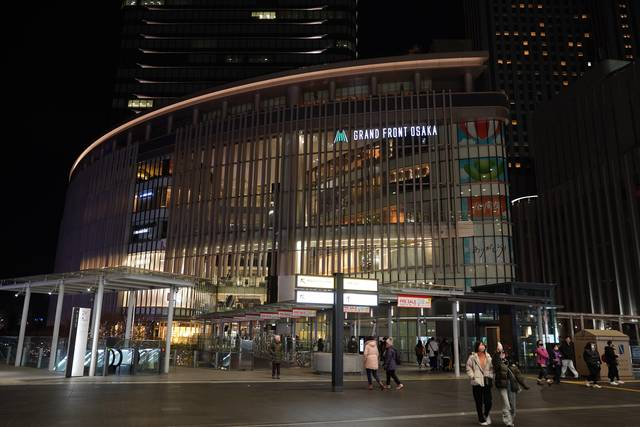
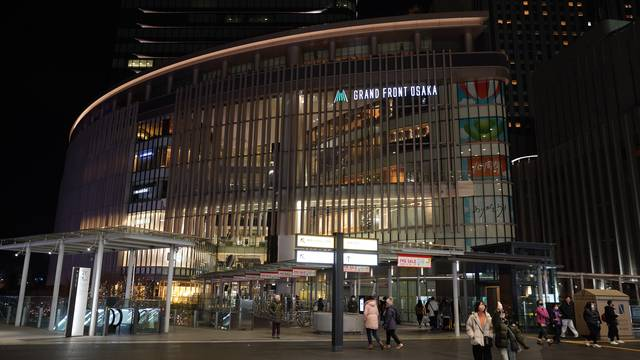
Cut images and add alt text

diff --git a/content/en/blog/tourism-senren-banka/index.md b/content/en/blog/tourism-senren-banka/index.md
@@ -27,15 +27,15 @@ Now let's get started!
 A nice street along a small river just north of central Gion.
 I have seen videos near the Gion Shinbashi bridge being full with tourists but it was fairly quiet every time I was there.
 
-![01](img/cg/01.jpg)
-![alt text](img/XLR66277.jpg)
+![01.jpg](img/cg/01.jpg)
+![XLR66277.jpg](img/XLR66277.jpg)
 
 Date: 2023-12-27
 
 I visited Kyōto again during the Sakura season and since I was already in the area I took a new picture in the morning.
 
-![01](img/cg/01.jpg)
-![alt text](img/YD825920.jpg)
+![01.jpg](img/cg/01.jpg)
+![YD825920.jpg](img/YD825920.jpg)
 
 Date: 2024-04-08
 
@@ -44,13 +44,13 @@ Date: 2024-04-08
 Hanamikoji Street is one of Kyoto City's most famous streets, situated right in the Gion district.  
 Since it is a public street you can take pictures, but be careful not to disturb anybody and do not take pictures anywhere it is not allowed.
 
-![02](img/cg/02.jpg)
-![alt text](img/XLR67319.jpg)
+![02.jpg](img/cg/02.jpg)
+![XLR67319.jpg](img/XLR67319.jpg)
 
 Date: 2023-12-27
 
-![02](img/cg/02.jpg)
-![alt text](img/YD825472.jpg)
+![02.jpg](img/cg/02.jpg)
+![YD825472.jpg](img/YD825472.jpg)
 
 Date: 2024-04-08
 
@@ -60,24 +60,23 @@ Nice shopping streets with traditional Japanese-style buildings in front of Kiyo
 Especially the stairs on the left side of the picture are very popular.
 Sadly, the famous weeping cherry tree there suddenly fell down recently.
 
-![05](img/cg/05.jpg)
-![alt text](img/XLR60433.jpg)
+![05.jpg](img/cg/05.jpg)
+![XLR60433.jpg](img/XLR60433.jpg)
 
 Date: 2023-12-27
 
-![05](img/cg/05.jpg)
-![alt text](img/YD862703.jpg)
+![05.jpg](img/cg/05.jpg)
+![YD862703.jpg](img/YD862703.jpg)
 
 Date: 2024-04-08
 
-
-![04](img/cg/04.jpg)
-![alt text](img/XLR64159.jpg)
+![04.jpg](img/cg/04.jpg)
+![XLR64159.jpg](img/XLR64159.jpg)
 
 Date: 2023-12-27
 
-![04](img/cg/04.jpg)
-![alt text](img/YD863094.jpg)
+![04.jpg](img/cg/04.jpg)
+![YD863094.jpg](img/YD863094.jpg)
 
 Date: 2024-04-08
 
@@ -88,8 +87,8 @@ The people at the shop on the right side were doing their best to sell their soa
 
 The Former Butoku Hall is apparently the oldest martial arts performance hall in Japan, having been built in 1899 as part of the 1100th anniversary celebrations of the capital moving to Heian-kyo, and it has been designated as a significant cultural property in Japan.
 
-![03](img/cg/03.jpg)
-![alt text](img/XLR58600.jpg)
+![03.jpg](img/cg/03.jpg)
+![XLR58600.jpg](img/XLR58600.jpg)
 
 Date: 2023-12-27
 
@@ -98,8 +97,8 @@ Date: 2023-12-27
 A big and fairly quiet temple thats pretty unknown to tourists. It is one of the head temples of the Pure Land (Jōdo) school of Buddhism
 and has a garden you can visit during the autumn leaves season.
 
-![06](img/cg/06.jpg)
-![alt text](img/XLR57627.jpg)
+![06.jpg](img/cg/06.jpg)
+![XLR57627.jpg](img/XLR57627.jpg)
 
 Date: 2023-12-27
 
@@ -110,13 +109,13 @@ The Takenaka Inari Shrine next to it is somewhat famous for its cherry blossoms.
 
 If you go down from the top (north west of the observation deck), it is close to the second 立入禁止 (no tresspassing) sign.
 
-![07](img/cg/07.jpg)
-![alt text](img/XLR55999.jpg)
+![07.jpg](img/cg/07.jpg)
+![XLR55999.jpg](img/XLR55999.jpg)
 
 This location is south of the observation deck.
 
-![08](img/cg/08.jpg)
-![alt text](img/XLR55562.jpg)
+![08.jpg](img/cg/08.jpg)
+![XLR55562.jpg](img/XLR55562.jpg)
 
 Date: 2023-12-27
 
@@ -128,7 +127,7 @@ Continue straight, passing the observation deck, and you should find the second 
 In the visual novel, the shrine is called Tatemi Jinja (建実神社). In real life, it's the Ikuta Shrine in Kōbe, a shrine I had already wanted to visit for their nice goshuin, goshuincho and omamori.
 It is the largest and most famous shrine in Kōbe, and possibly among the oldest shrines in Japan.
 
-![09](img/cg/09.jpg)
+![09.jpg](img/cg/09.jpg)
 ![YCB50025.jpg](img/YCB50025.jpg)
 
 Date: 2024-03-11

diff --git a/content/en/blog/tourism-sanoba-witch/index.md b/content/en/blog/tourism-sanoba-witch/index.md
@@ -23,7 +23,7 @@ I don't think Kyōto Station needs an introduction, but here it is anyway:
 It has Japan's second-largest station building (after Nagoya Station) and is one of the country's largest buildings, incorporating a shopping mall, hotel, movie theater, Isetan department store, and several local government facilities under one 15-story roof.  
 The building's futuristic design was conceived by Japanese architect Hara Hiroshi. It attempts to convey historical Kyoto through a modern aesthetic.
 
-![01](img/cg/01.jpg)
+![01.jpg](img/cg/01.jpg)
 ![XLO55615.jpg](img/XLO55615.jpg)
 
 Date: 2023-12-24
@@ -32,7 +32,7 @@ Date: 2023-12-24
 
 This image is used as the school in the visual novel, however, in reality it is the Kyoto Concert Hall.
 
-![03](img/cg/03.jpg)
+![03.jpg](img/cg/03.jpg)
 ![XLR50928.jpg](img/XLR50928.jpg)
 
 Date: 2023-12-27
@@ -41,21 +41,21 @@ Date: 2023-12-27
 
 Nothing special here. There's a driving school on the other side of the street.
 
-![04](img/cg/04.jpg)
+![04.jpg](img/cg/04.jpg)
 ![XLR51691.jpg](img/XLR51691.jpg)
 
 Date: 2023-12-27
 
 ## Inuzuka Bridge
 
-![05](img/cg/05.jpg)
+![05.jpg](img/cg/05.jpg)
 ![XLR52897.jpg](img/XLR52897.jpg)
 
 Date: 2023-12-27
 
 ## Yamanohana-chō
 
-![06](img/cg/06.jpg)
+![06.jpg](img/cg/06.jpg)
 ![XLR53207.jpg](img/XLR53207.jpg)
 
 Date: 2023-12-27
@@ -65,7 +65,7 @@ Date: 2023-12-27
 At first, I tried finding it by just walking along the shopping street, but it is a much larger street than I expected and I ended up using Google Maps to find it.  
 This location is fairly close to Shirakawa Lane from the Senren\*Banka pilgrimage.
 
-![02](img/cg/02.jpg)
+![02.jpg](img/cg/02.jpg)
 ![XLR70361.jpg](img/XLR70361.jpg)
 
 Date: 2023-12-27
@@ -79,23 +79,23 @@ I had to wait for a long time to get a seat, as it is a very small restaurant bu
 
 This is the view of the South Building coming from Ōsaka Station.
 
-![09](img/cg/09.jpg)
+![09.jpg](img/cg/09.jpg)
 ![XLQ79611.jpg](img/XLQ79611.jpg)
 
 Date: 2023-12-26
 
 You should be able to find it by walking straight from the previous location to the other side of the building. The shop there is "Aux Bacchanales".
+I was exhausted and in a hurry to catch the train back to Kyōto, so the perspective is a bit off.
 
-![08](img/cg/08.jpg)
+![08.jpg](img/cg/08.jpg)
 ![XLQ80603.jpg](img/XLQ80603.jpg)
 
 Date: 2023-12-26
 
-
 Due to circumstances outside of my control, I arrived at the Grand Front Ōsaka in the late evening and everything was already closed so I had to return another day to take this picture inside the building.
 It is inside the North Building on the 4th floor. You can walke throught the South Building over the bridge to the North Building and then go up the escalators to get there. The store you can see on the same floor in the picture is "HIDA Ōsakaten".
 
-![07](img/cg/07.jpg)
+![07.jpg](img/cg/07.jpg)
 ![YCB62335.jpg](img/YCB62335.jpg)
 
 Date: 2024-03-11
@@ -109,7 +109,7 @@ The building is called _Kitano Monogatari-kan_ and was apparently built in 1907 
 Being a Starbucks with a special design in a touristy area, it was somewhat crowded.  
 In the visual novel, this places is the coffee shop "Schwarze Katze".
 
-![10](img/cg/10.jpg)
+![10.jpg](img/cg/10.jpg)
 ![YCB51633.jpg](img/YCB51633.jpg)
 
 ![YCB51506.jpg](img/YCB51506.jpg)
